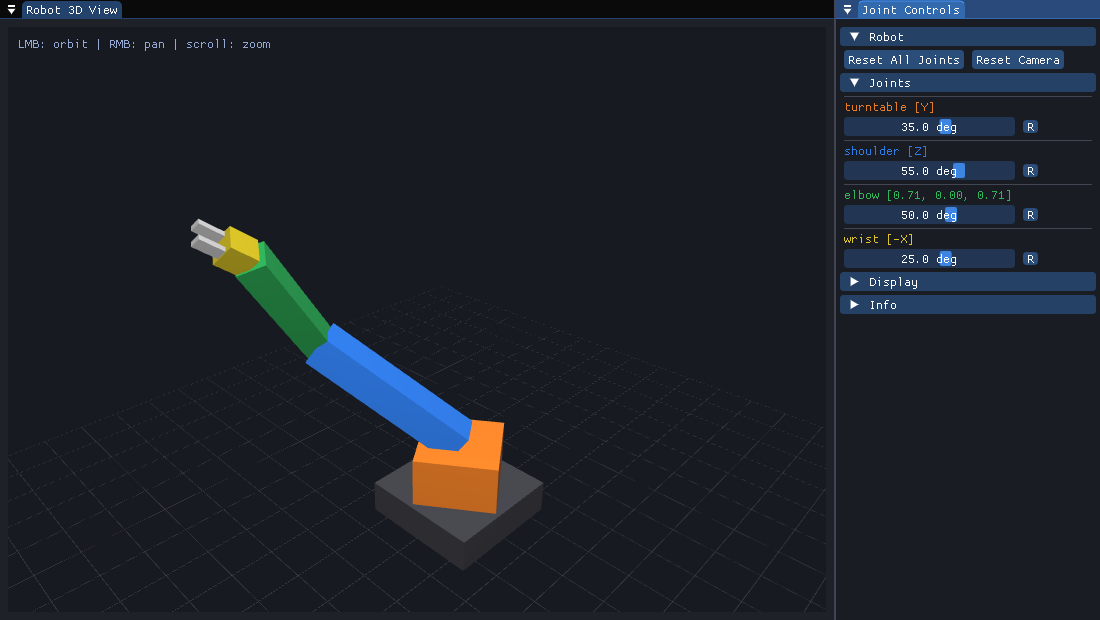
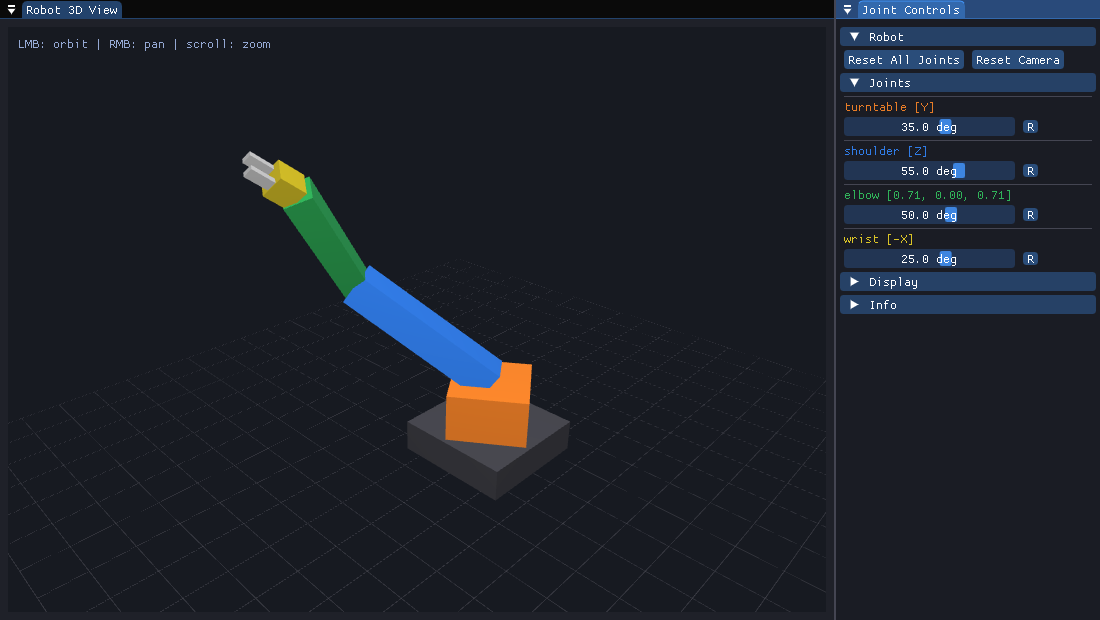
feat: Frame a loaded model in the pose it is shown in
--pose was applied after framing, so a model was fitted to its rest
pose: a UR5 lies flat at rest, and once posed upright it left the frame.
The pose now goes first. The built-in arm is not auto-framed and is
unaffected; the README's loaded-model image is regenerated, now framed
the way it is shown.

diff --git a/src/main.cpp b/src/main.cpp
@@ -764,8 +764,14 @@ int main(int argc, char **argv)
     }
     rbt_robot_upload_meshes(&s_robot);
 
-    /* A loaded model can be any size, so it is framed in its rest pose. The
-     * built-in arm keeps the view it was tuned for. */
+    /* The pose goes first, so that a loaded model is framed the way it will
+     * be shown: a UR5 lies flat at rest and stands up once posed. */
+    if (options.pose != NULL) {
+        s_apply_pose(options.pose);
+    }
+
+    /* A loaded model can be any size, so it is framed to fit. The built-in
+     * arm keeps the view it was tuned for. */
     if (options.model_path != NULL) {
         rbt_robot_update_fk(&s_robot);
         s_fit_scene_to(&s_robot);
@@ -780,10 +786,6 @@ int main(int argc, char **argv)
         s_camera.target = Vector3f(options.target[0], options.target[1], options.target[2]);
     }
     s_home_camera = s_camera;
-
-    if (options.pose != NULL) {
-        s_apply_pose(options.pose);
-    }
 
     s_grid = rbt_mesh_make_grid(s_grid_size, s_grid_divisions);
     rbt_mesh_upload(&s_grid);
